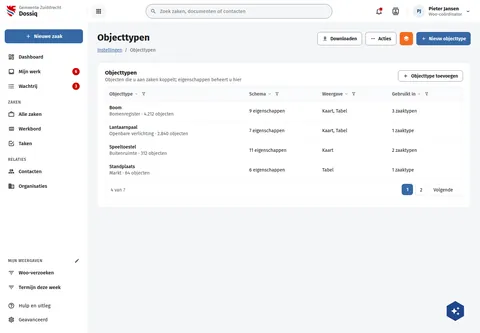
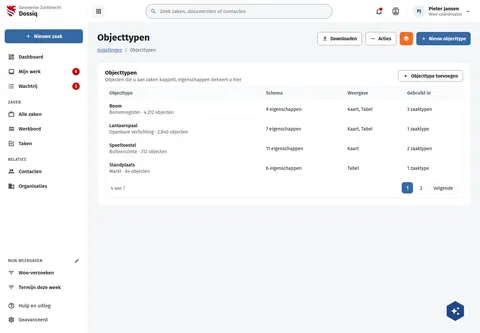
fix(screens): DqCatalogus card table heads are plain labels
The object types table in its card neither sorts nor filters, so its
heads are the column names only, as live draws them (r29 headRowHeight
46.5 vs 37.5).

Assisted-by: ClaudeCode:claude-opus-5-5

diff --git a/preview/screens/boards/DqCatalogus.html b/preview/screens/boards/DqCatalogus.html
@@ -144,7 +144,7 @@ a{color:var(--sc-primary, #3669a5)}a:hover{color:var(--sc-primary-deep, #234a78)
             <div style="flex: none; display: flex; flex-wrap: wrap; gap: 10px; position: relative"><button type="button" style="display: inline-flex; align-items: center; gap: 8px; height: 40px; padding: 0 14px; border-radius: 8px; font: 600 14px var(--sc-font, 'Fira Sans'), sans-serif; white-space: nowrap; border: 1px solid var(--sc-work-field, #828a95); background: #ffffff; color: var(--sc-work-ink, #1b1c1d);"><svg width="16" height="16" viewbox="0 0 24 24" fill="currentColor" aria-hidden="true"><path d="M13,5V11H14.17L12,13.17L9.83,11H11V5H13M15,3H9V9H5L12,16L19,9H15V3M19,18H5V20H19V18Z"></path></svg>Downloaden</button><button type="button" aria-haspopup="menu" style="display: flex; align-items: center; gap: 8px; height: 40px; padding: 0 14px; border: 1px solid var(--sc-work-field, #828a95); border-radius: 8px; background: #ffffff; font: 600 14px var(--sc-font, 'Fira Sans'), sans-serif; color: var(--sc-work-ink, #1b1c1d)"><svg width="16" height="16" viewbox="0 0 24 24" fill="currentColor" aria-hidden="true"><path d="M16,12A2,2 0 0,1 18,10A2,2 0 0,1 20,12A2,2 0 0,1 18,14A2,2 0 0,1 16,12M10,12A2,2 0 0,1 12,10A2,2 0 0,1 14,12A2,2 0 0,1 12,14A2,2 0 0,1 10,12M4,12A2,2 0 0,1 6,10A2,2 0 0,1 8,12A2,2 0 0,1 6,14A2,2 0 0,1 4,12Z"></path></svg>Acties</button><button type="button" aria-label="buildiq" title="buildiq" style="display: flex; align-items: center; justify-content: center; width: 40px; height: 40px; border: 0; border-radius: 8px; background: #f36c21; color: #ffffff"><svg width="20" height="20" viewbox="0 0 24 24" fill="currentColor" aria-hidden="true"><path d="M12,16L19.36,10.27L21,9L12,2L3,9L4.63,10.27M12,18.54L4.62,12.81L3,14.07L12,21.07L21,14.07L19.37,12.8L12,18.54Z"></path></svg></button><button type="button" style="display: inline-flex; align-items: center; gap: 8px; height: 40px; padding: 0 14px; border-radius: 8px; font: 600 14px var(--sc-font, 'Fira Sans'), sans-serif; white-space: nowrap; border: 0; background: var(--sc-primary, #3669a5); color: #ffffff;"><svg width="16" height="16" viewbox="0 0 24 24" fill="currentColor" aria-hidden="true"><path d="M19,13H13V19H11V13H5V11H11V5H13V11H19V13Z"></path></svg>Nieuw objecttype</button></div>
           </div>
           <div style="display: flex; flex-wrap: wrap; gap: 8px; align-items: center; font-size: 15px; color: var(--sc-work-muted, #5e6168); min-width: 0"><nav aria-label="Kruimelpad" style="font-size: 14px; color: var(--sc-work-muted, #5e6168); display: flex; gap: 8px"><a href="#">Instellingen</a><span aria-hidden="true">/</span><span aria-current="page">Objecttypen</span></nav></div>
-        </section><div style="display: flex; flex-wrap: wrap; gap: 20px; align-items: flex-start"><div style="flex: 1 1 100%; min-width: 0; display: flex; flex-direction: column; gap: 20px"><section style="background: #ffffff; border: 1px solid var(--sc-work-line, #e4e6ea); border-radius: 12px; padding: 20px 22px 22px; display: flex; flex-direction: column; gap: 12px"><div style="display: flex; flex-wrap: wrap; justify-content: space-between; align-items: center; gap: 8px 12px"><div style="display: flex; flex-direction: column; gap: 2px"><h2 style="margin: 0; font-size: 17px; font-weight: 700">Objecttypen</h2><span style="font-size: 14px; color: var(--sc-work-muted, #5e6168)">Objecten die u aan zaken koppelt; eigenschappen beheert u hier</span></div><button type="button" style="display: inline-flex; align-items: center; gap: 8px; height: 34px; padding: 0 14px; border-radius: 8px; font: 600 14px var(--sc-font, 'Fira Sans'), sans-serif; white-space: nowrap; border: 1px solid var(--sc-work-field, #828a95); background: #ffffff; color: var(--sc-work-ink, #1b1c1d);"><svg width="16" height="16" viewbox="0 0 24 24" fill="currentColor" aria-hidden="true"><path d="M19,13H13V19H11V13H5V11H11V5H13V11H19V13Z"></path></svg>Objecttype toevoegen</button></div><div style="background: #ffffff; border: 1px solid var(--sc-work-line, #e4e6ea); border-radius: 12px; overflow: hidden"><div style="overflow-x: auto"><table style="border-collapse: collapse; width: 100%; min-width: 860px; font-size: 14px"><thead><tr style="text-align: left; color: var(--sc-work-muted, #5e6168); background: #fafbfc"><th scope="col" style="padding: 10px 12px; font-weight: 600"><span style="display: inline-flex; align-items: center; gap: 4px"><button type="button" style="border: 0; background: transparent; padding: 0; font: inherit; color: inherit; display: inline-flex; gap: 4px; align-items: center; text-align: left">Objecttype <svg width="14" height="14" viewbox="0 0 24 24" fill="#828a95" aria-hidden="true" style="fill:var(--sc-work-field, #828a95)"><path d="M7.41,8.58L12,13.17L16.59,8.58L18,10L12,16L6,10L7.41,8.58Z"></path></svg></button><button type="button" aria-haspopup="dialog" aria-label="Filteren op Objecttype" title="Filteren op Objecttype" style="width: 22px; height: 22px; padding: 0; border: 0; border-radius: 4px; background: transparent; color: var(--sc-work-muted, #5e6168); display: inline-flex; align-items: center; justify-content: center"><svg width="14" height="14" viewbox="0 0 24 24" fill="currentColor" aria-hidden="true"><path d="M15,19.88C15.04,20.18 14.94,20.5 14.71,20.71C14.32,21.1 13.69,21.1 13.3,20.71L9.29,16.7C9.06,16.47 8.96,16.16 9,15.87V10.75L4.21,4.62C3.87,4.19 3.95,3.56 4.38,3.22C4.57,3.08 4.78,3 5,3V3H19V3C19.22,3 19.43,3.08 19.62,3.22C20.05,3.56 20.13,4.19 19.79,4.62L15,10.75V19.88M7.04,5L11,10.06V15.58L13,17.58V10.05L16.96,5H7.04Z"></path></svg></button></span></th><th scope="col" style="padding: 10px 12px; font-weight: 600"><span style="display: inline-flex; align-items: center; gap: 4px"><button type="button" style="border: 0; background: transparent; padding: 0; font: inherit; color: inherit; display: inline-flex; gap: 4px; align-items: center; text-align: left">Schema <svg width="14" height="14" viewbox="0 0 24 24" fill="#828a95" aria-hidden="true" style="fill:var(--sc-work-field, #828a95)"><path d="M7.41,8.58L12,13.17L16.59,8.58L18,10L12,16L6,10L7.41,8.58Z"></path></svg></button><button type="button" aria-haspopup="dialog" aria-label="Filteren op Schema" title="Filteren op Schema" style="width: 22px; height: 22px; padding: 0; border: 0; border-radius: 4px; background: transparent; color: var(--sc-work-muted, #5e6168); display: inline-flex; align-items: center; justify-content: center"><svg width="14" height="14" viewbox="0 0 24 24" fill="currentColor" aria-hidden="true"><path d="M15,19.88C15.04,20.18 14.94,20.5 14.71,20.71C14.32,21.1 13.69,21.1 13.3,20.71L9.29,16.7C9.06,16.47 8.96,16.16 9,15.87V10.75L4.21,4.62C3.87,4.19 3.95,3.56 4.38,3.22C4.57,3.08 4.78,3 5,3V3H19V3C19.22,3 19.43,3.08 19.62,3.22C20.05,3.56 20.13,4.19 19.79,4.62L15,10.75V19.88M7.04,5L11,10.06V15.58L13,17.58V10.05L16.96,5H7.04Z"></path></svg></button></span></th><th scope="col" style="padding: 10px 12px; font-weight: 600"><span style="display: inline-flex; align-items: center; gap: 4px"><button type="button" style="border: 0; background: transparent; padding: 0; font: inherit; color: inherit; display: inline-flex; gap: 4px; align-items: center; text-align: left">Weergave <svg width="14" height="14" viewbox="0 0 24 24" fill="#828a95" aria-hidden="true" style="fill:var(--sc-work-field, #828a95)"><path d="M7.41,8.58L12,13.17L16.59,8.58L18,10L12,16L6,10L7.41,8.58Z"></path></svg></button><button type="button" aria-haspopup="dialog" aria-label="Filteren op Weergave" title="Filteren op Weergave" style="width: 22px; height: 22px; padding: 0; border: 0; border-radius: 4px; background: transparent; color: var(--sc-work-muted, #5e6168); display: inline-flex; align-items: center; justify-content: center"><svg width="14" height="14" viewbox="0 0 24 24" fill="currentColor" aria-hidden="true"><path d="M15,19.88C15.04,20.18 14.94,20.5 14.71,20.71C14.32,21.1 13.69,21.1 13.3,20.71L9.29,16.7C9.06,16.47 8.96,16.16 9,15.87V10.75L4.21,4.62C3.87,4.19 3.95,3.56 4.38,3.22C4.57,3.08 4.78,3 5,3V3H19V3C19.22,3 19.43,3.08 19.62,3.22C20.05,3.56 20.13,4.19 19.79,4.62L15,10.75V19.88M7.04,5L11,10.06V15.58L13,17.58V10.05L16.96,5H7.04Z"></path></svg></button></span></th><th scope="col" style="padding: 10px 12px; font-weight: 600"><span style="display: inline-flex; align-items: center; gap: 4px"><button type="button" style="border: 0; background: transparent; padding: 0; font: inherit; color: inherit; display: inline-flex; gap: 4px; align-items: center; text-align: left">Gebruikt in <svg width="14" height="14" viewbox="0 0 24 24" fill="#828a95" aria-hidden="true" style="fill:var(--sc-work-field, #828a95)"><path d="M7.41,8.58L12,13.17L16.59,8.58L18,10L12,16L6,10L7.41,8.58Z"></path></svg></button><button type="button" aria-haspopup="dialog" aria-label="Filteren op Gebruikt in" title="Filteren op Gebruikt in" style="width: 22px; height: 22px; padding: 0; border: 0; border-radius: 4px; background: transparent; color: var(--sc-work-muted, #5e6168); display: inline-flex; align-items: center; justify-content: center"><svg width="14" height="14" viewbox="0 0 24 24" fill="currentColor" aria-hidden="true"><path d="M15,19.88C15.04,20.18 14.94,20.5 14.71,20.71C14.32,21.1 13.69,21.1 13.3,20.71L9.29,16.7C9.06,16.47 8.96,16.16 9,15.87V10.75L4.21,4.62C3.87,4.19 3.95,3.56 4.38,3.22C4.57,3.08 4.78,3 5,3V3H19V3C19.22,3 19.43,3.08 19.62,3.22C20.05,3.56 20.13,4.19 19.79,4.62L15,10.75V19.88M7.04,5L11,10.06V15.58L13,17.58V10.05L16.96,5H7.04Z"></path></svg></button></span></th></tr></thead><tbody><tr style="border-top: 1px solid var(--sc-work-soft, #eef0f3)"><td style="padding: 11px 12px; font-weight: 500"><span style="display: flex; flex-direction: column; gap: 2px"><span>Boom</span><span style="color: var(--sc-work-muted, #5e6168); font-weight: 400">Bomenregister · 4.212 objecten</span></span></td><td style="padding: 11px 12px">9 eigenschappen</td><td style="padding: 11px 12px">Kaart, Tabel</td><td style="padding: 11px 12px">3 zaaktypen</td></tr><tr style="border-top: 1px solid var(--sc-work-soft, #eef0f3)"><td style="padding: 11px 12px; font-weight: 500"><span style="display: flex; flex-direction: column; gap: 2px"><span>Lantaarnpaal</span><span style="color: var(--sc-work-muted, #5e6168); font-weight: 400">Openbare verlichting · 2.840 objecten</span></span></td><td style="padding: 11px 12px">7 eigenschappen</td><td style="padding: 11px 12px">Kaart, Tabel</td><td style="padding: 11px 12px">1 zaaktype</td></tr><tr style="border-top: 1px solid var(--sc-work-soft, #eef0f3)"><td style="padding: 11px 12px; font-weight: 500"><span style="display: flex; flex-direction: column; gap: 2px"><span>Speeltoestel</span><span style="color: var(--sc-work-muted, #5e6168); font-weight: 400">Buitenruimte · 312 objecten</span></span></td><td style="padding: 11px 12px">11 eigenschappen</td><td style="padding: 11px 12px">Kaart</td><td style="padding: 11px 12px">2 zaaktypen</td></tr><tr style="border-top: 1px solid var(--sc-work-soft, #eef0f3)"><td style="padding: 11px 12px; font-weight: 500"><span style="display: flex; flex-direction: column; gap: 2px"><span>Standplaats</span><span style="color: var(--sc-work-muted, #5e6168); font-weight: 400">Markt · 64 objecten</span></span></td><td style="padding: 11px 12px">6 eigenschappen</td><td style="padding: 11px 12px">Tabel</td><td style="padding: 11px 12px">1 zaaktype</td></tr></tbody></table></div><div style="display: flex; flex-wrap: wrap; justify-content: space-between; align-items: center; gap: 12px; padding: 12px 16px; border-top: 1px solid var(--sc-work-soft, #eef0f3); font-size: 14px; color: var(--sc-work-muted, #5e6168)"><span>4 van 7</span><nav aria-label="Paginering" style="display: flex; gap: 6px"><a href="#" aria-current="page" style="min-width: 34px; height: 34px; display: inline-flex; align-items: center; justify-content: center; border-radius: 8px; background: var(--sc-primary, #3669a5); color: #ffffff; font-weight: 600; text-decoration: none">1</a><a href="#" style="min-width: 34px; height: 34px; display: inline-flex; align-items: center; justify-content: center; border-radius: 8px; border: 1px solid var(--sc-work-line, #e4e6ea); color: var(--sc-work-ink, #1b1c1d); text-decoration: none">2</a><a href="#" style="height: 34px; padding: 0 12px; display: inline-flex; align-items: center; border-radius: 8px; border: 1px solid var(--sc-work-line, #e4e6ea); color: var(--sc-work-ink, #1b1c1d); text-decoration: none">Volgende</a></nav></div></div></section></div></div>
+        </section><div style="display: flex; flex-wrap: wrap; gap: 20px; align-items: flex-start"><div style="flex: 1 1 100%; min-width: 0; display: flex; flex-direction: column; gap: 20px"><section style="background: #ffffff; border: 1px solid var(--sc-work-line, #e4e6ea); border-radius: 12px; padding: 20px 22px 22px; display: flex; flex-direction: column; gap: 12px"><div style="display: flex; flex-wrap: wrap; justify-content: space-between; align-items: center; gap: 8px 12px"><div style="display: flex; flex-direction: column; gap: 2px"><h2 style="margin: 0; font-size: 17px; font-weight: 700">Objecttypen</h2><span style="font-size: 14px; color: var(--sc-work-muted, #5e6168)">Objecten die u aan zaken koppelt; eigenschappen beheert u hier</span></div><button type="button" style="display: inline-flex; align-items: center; gap: 8px; height: 34px; padding: 0 14px; border-radius: 8px; font: 600 14px var(--sc-font, 'Fira Sans'), sans-serif; white-space: nowrap; border: 1px solid var(--sc-work-field, #828a95); background: #ffffff; color: var(--sc-work-ink, #1b1c1d);"><svg width="16" height="16" viewbox="0 0 24 24" fill="currentColor" aria-hidden="true"><path d="M19,13H13V19H11V13H5V11H11V5H13V11H19V13Z"></path></svg>Objecttype toevoegen</button></div><div style="background: #ffffff; border: 1px solid var(--sc-work-line, #e4e6ea); border-radius: 12px; overflow: hidden"><div style="overflow-x: auto"><table style="border-collapse: collapse; width: 100%; min-width: 860px; font-size: 14px"><thead><tr style="text-align: left; color: var(--sc-work-muted, #5e6168); background: #fafbfc"><th scope="col" style="padding: 10px 12px; font-weight: 600">Objecttype</th><th scope="col" style="padding: 10px 12px; font-weight: 600">Schema</th><th scope="col" style="padding: 10px 12px; font-weight: 600">Weergave</th><th scope="col" style="padding: 10px 12px; font-weight: 600">Gebruikt in</th></tr></thead><tbody><tr style="border-top: 1px solid var(--sc-work-soft, #eef0f3)"><td style="padding: 11px 12px; font-weight: 500"><span style="display: flex; flex-direction: column; gap: 2px"><span>Boom</span><span style="color: var(--sc-work-muted, #5e6168); font-weight: 400">Bomenregister · 4.212 objecten</span></span></td><td style="padding: 11px 12px">9 eigenschappen</td><td style="padding: 11px 12px">Kaart, Tabel</td><td style="padding: 11px 12px">3 zaaktypen</td></tr><tr style="border-top: 1px solid var(--sc-work-soft, #eef0f3)"><td style="padding: 11px 12px; font-weight: 500"><span style="display: flex; flex-direction: column; gap: 2px"><span>Lantaarnpaal</span><span style="color: var(--sc-work-muted, #5e6168); font-weight: 400">Openbare verlichting · 2.840 objecten</span></span></td><td style="padding: 11px 12px">7 eigenschappen</td><td style="padding: 11px 12px">Kaart, Tabel</td><td style="padding: 11px 12px">1 zaaktype</td></tr><tr style="border-top: 1px solid var(--sc-work-soft, #eef0f3)"><td style="padding: 11px 12px; font-weight: 500"><span style="display: flex; flex-direction: column; gap: 2px"><span>Speeltoestel</span><span style="color: var(--sc-work-muted, #5e6168); font-weight: 400">Buitenruimte · 312 objecten</span></span></td><td style="padding: 11px 12px">11 eigenschappen</td><td style="padding: 11px 12px">Kaart</td><td style="padding: 11px 12px">2 zaaktypen</td></tr><tr style="border-top: 1px solid var(--sc-work-soft, #eef0f3)"><td style="padding: 11px 12px; font-weight: 500"><span style="display: flex; flex-direction: column; gap: 2px"><span>Standplaats</span><span style="color: var(--sc-work-muted, #5e6168); font-weight: 400">Markt · 64 objecten</span></span></td><td style="padding: 11px 12px">6 eigenschappen</td><td style="padding: 11px 12px">Tabel</td><td style="padding: 11px 12px">1 zaaktype</td></tr></tbody></table></div><div style="display: flex; flex-wrap: wrap; justify-content: space-between; align-items: center; gap: 12px; padding: 12px 16px; border-top: 1px solid var(--sc-work-soft, #eef0f3); font-size: 14px; color: var(--sc-work-muted, #5e6168)"><span>4 van 7</span><nav aria-label="Paginering" style="display: flex; gap: 6px"><a href="#" aria-current="page" style="min-width: 34px; height: 34px; display: inline-flex; align-items: center; justify-content: center; border-radius: 8px; background: var(--sc-primary, #3669a5); color: #ffffff; font-weight: 600; text-decoration: none">1</a><a href="#" style="min-width: 34px; height: 34px; display: inline-flex; align-items: center; justify-content: center; border-radius: 8px; border: 1px solid var(--sc-work-line, #e4e6ea); color: var(--sc-work-ink, #1b1c1d); text-decoration: none">2</a><a href="#" style="height: 34px; padding: 0 12px; display: inline-flex; align-items: center; border-radius: 8px; border: 1px solid var(--sc-work-line, #e4e6ea); color: var(--sc-work-ink, #1b1c1d); text-decoration: none">Volgende</a></nav></div></div></section></div></div>
       </main>
     </div>
   </div>

diff --git a/screens-src/zuiddrecht/DqCatalogus.dc.html b/screens-src/zuiddrecht/DqCatalogus.dc.html
@@ -26,7 +26,7 @@ a{color:#3669a5}a:hover{color:#234a78}
             <div style="flex: none; display: flex; flex-wrap: wrap; gap: 10px; position: relative"><button type="button" style="display: inline-flex; align-items: center; gap: 8px; height: 40px; padding: 0 14px; border-radius: 8px; font: 600 14px 'Fira Sans', sans-serif; white-space: nowrap; border: 1px solid #828a95; background: #ffffff; color: #1b1c1d;"><svg width="16" height="16" viewBox="0 0 24 24" fill="currentColor" aria-hidden="true"><path d="M13,5V11H14.17L12,13.17L9.83,11H11V5H13M15,3H9V9H5L12,16L19,9H15V3M19,18H5V20H19V18Z"></path></svg>Downloaden</button><button type="button" aria-haspopup="menu" style="display: flex; align-items: center; gap: 8px; height: 40px; padding: 0 14px; border: 1px solid #828a95; border-radius: 8px; background: #ffffff; font: 600 14px 'Fira Sans', sans-serif; color: #1b1c1d"><svg width="16" height="16" viewBox="0 0 24 24" fill="currentColor" aria-hidden="true"><path d="M16,12A2,2 0 0,1 18,10A2,2 0 0,1 20,12A2,2 0 0,1 18,14A2,2 0 0,1 16,12M10,12A2,2 0 0,1 12,10A2,2 0 0,1 14,12A2,2 0 0,1 12,14A2,2 0 0,1 10,12M4,12A2,2 0 0,1 6,10A2,2 0 0,1 8,12A2,2 0 0,1 6,14A2,2 0 0,1 4,12Z"></path></svg>Acties</button><button type="button" aria-label="buildiq" title="buildiq" style="display: flex; align-items: center; justify-content: center; width: 40px; height: 40px; border: 0; border-radius: 8px; background: #f36c21; color: #ffffff"><svg width="20" height="20" viewBox="0 0 24 24" fill="currentColor" aria-hidden="true"><path d="M12,16L19.36,10.27L21,9L12,2L3,9L4.63,10.27M12,18.54L4.62,12.81L3,14.07L12,21.07L21,14.07L19.37,12.8L12,18.54Z"></path></svg></button><button type="button" style="display: inline-flex; align-items: center; gap: 8px; height: 40px; padding: 0 14px; border-radius: 8px; font: 600 14px 'Fira Sans', sans-serif; white-space: nowrap; border: 0; background: #3669a5; color: #ffffff;"><svg width="16" height="16" viewBox="0 0 24 24" fill="currentColor" aria-hidden="true"><path d="M19,13H13V19H11V13H5V11H11V5H13V11H19V13Z"></path></svg>Nieuw objecttype</button></div>
           </div>
           <div style="display: flex; flex-wrap: wrap; gap: 8px; align-items: center; font-size: 15px; color: #5e6168; min-width: 0"><nav aria-label="Kruimelpad" style="font-size: 14px; color: #5e6168; display: flex; gap: 8px"><a href="#">Instellingen</a><span aria-hidden="true">/</span><span aria-current="page">Objecttypen</span></nav></div>
-        </section><div style="display: flex; flex-wrap: wrap; gap: 20px; align-items: flex-start"><div style="flex: 1 1 100%; min-width: 0; display: flex; flex-direction: column; gap: 20px"><section style="background: #ffffff; border: 1px solid #e4e6ea; border-radius: 12px; padding: 20px 22px 22px; display: flex; flex-direction: column; gap: 12px"><div style="display: flex; flex-wrap: wrap; justify-content: space-between; align-items: center; gap: 8px 12px"><div style="display: flex; flex-direction: column; gap: 2px"><h2 style="margin: 0; font-size: 17px; font-weight: 700">Objecttypen</h2><span style="font-size: 14px; color: #5e6168">Objecten die u aan zaken koppelt; eigenschappen beheert u hier</span></div><button type="button" style="display: inline-flex; align-items: center; gap: 8px; height: 34px; padding: 0 14px; border-radius: 8px; font: 600 14px 'Fira Sans', sans-serif; white-space: nowrap; border: 1px solid #828a95; background: #ffffff; color: #1b1c1d;"><svg width="16" height="16" viewBox="0 0 24 24" fill="currentColor" aria-hidden="true"><path d="M19,13H13V19H11V13H5V11H11V5H13V11H19V13Z"></path></svg>Objecttype toevoegen</button></div><div style="background: #ffffff; border: 1px solid #e4e6ea; border-radius: 12px; overflow: hidden"><div style="overflow-x: auto"><table style="border-collapse: collapse; width: 100%; min-width: 860px; font-size: 14px"><thead><tr style="text-align: left; color: #5e6168; background: #fafbfc"><th scope="col" style="padding: 10px 12px; font-weight: 600"><span style="display: inline-flex; align-items: center; gap: 4px"><button type="button" style="border: 0; background: transparent; padding: 0; font: inherit; color: inherit; display: inline-flex; gap: 4px; align-items: center; text-align: left">Objecttype <svg width="14" height="14" viewBox="0 0 24 24" fill="#828a95" aria-hidden="true"><path d="M7.41,8.58L12,13.17L16.59,8.58L18,10L12,16L6,10L7.41,8.58Z"></path></svg></button><button type="button" aria-haspopup="dialog" aria-label="Filteren op Objecttype" title="Filteren op Objecttype" style="width: 22px; height: 22px; padding: 0; border: 0; border-radius: 4px; background: transparent; color: #5e6168; display: inline-flex; align-items: center; justify-content: center"><svg width="14" height="14" viewBox="0 0 24 24" fill="currentColor" aria-hidden="true"><path d="M15,19.88C15.04,20.18 14.94,20.5 14.71,20.71C14.32,21.1 13.69,21.1 13.3,20.71L9.29,16.7C9.06,16.47 8.96,16.16 9,15.87V10.75L4.21,4.62C3.87,4.19 3.95,3.56 4.38,3.22C4.57,3.08 4.78,3 5,3V3H19V3C19.22,3 19.43,3.08 19.62,3.22C20.05,3.56 20.13,4.19 19.79,4.62L15,10.75V19.88M7.04,5L11,10.06V15.58L13,17.58V10.05L16.96,5H7.04Z"></path></svg></button></span></th><th scope="col" style="padding: 10px 12px; font-weight: 600"><span style="display: inline-flex; align-items: center; gap: 4px"><button type="button" style="border: 0; background: transparent; padding: 0; font: inherit; color: inherit; display: inline-flex; gap: 4px; align-items: center; text-align: left">Schema <svg width="14" height="14" viewBox="0 0 24 24" fill="#828a95" aria-hidden="true"><path d="M7.41,8.58L12,13.17L16.59,8.58L18,10L12,16L6,10L7.41,8.58Z"></path></svg></button><button type="button" aria-haspopup="dialog" aria-label="Filteren op Schema" title="Filteren op Schema" style="width: 22px; height: 22px; padding: 0; border: 0; border-radius: 4px; background: transparent; color: #5e6168; display: inline-flex; align-items: center; justify-content: center"><svg width="14" height="14" viewBox="0 0 24 24" fill="currentColor" aria-hidden="true"><path d="M15,19.88C15.04,20.18 14.94,20.5 14.71,20.71C14.32,21.1 13.69,21.1 13.3,20.71L9.29,16.7C9.06,16.47 8.96,16.16 9,15.87V10.75L4.21,4.62C3.87,4.19 3.95,3.56 4.38,3.22C4.57,3.08 4.78,3 5,3V3H19V3C19.22,3 19.43,3.08 19.62,3.22C20.05,3.56 20.13,4.19 19.79,4.62L15,10.75V19.88M7.04,5L11,10.06V15.58L13,17.58V10.05L16.96,5H7.04Z"></path></svg></button></span></th><th scope="col" style="padding: 10px 12px; font-weight: 600"><span style="display: inline-flex; align-items: center; gap: 4px"><button type="button" style="border: 0; background: transparent; padding: 0; font: inherit; color: inherit; display: inline-flex; gap: 4px; align-items: center; text-align: left">Weergave <svg width="14" height="14" viewBox="0 0 24 24" fill="#828a95" aria-hidden="true"><path d="M7.41,8.58L12,13.17L16.59,8.58L18,10L12,16L6,10L7.41,8.58Z"></path></svg></button><button type="button" aria-haspopup="dialog" aria-label="Filteren op Weergave" title="Filteren op Weergave" style="width: 22px; height: 22px; padding: 0; border: 0; border-radius: 4px; background: transparent; color: #5e6168; display: inline-flex; align-items: center; justify-content: center"><svg width="14" height="14" viewBox="0 0 24 24" fill="currentColor" aria-hidden="true"><path d="M15,19.88C15.04,20.18 14.94,20.5 14.71,20.71C14.32,21.1 13.69,21.1 13.3,20.71L9.29,16.7C9.06,16.47 8.96,16.16 9,15.87V10.75L4.21,4.62C3.87,4.19 3.95,3.56 4.38,3.22C4.57,3.08 4.78,3 5,3V3H19V3C19.22,3 19.43,3.08 19.62,3.22C20.05,3.56 20.13,4.19 19.79,4.62L15,10.75V19.88M7.04,5L11,10.06V15.58L13,17.58V10.05L16.96,5H7.04Z"></path></svg></button></span></th><th scope="col" style="padding: 10px 12px; font-weight: 600"><span style="display: inline-flex; align-items: center; gap: 4px"><button type="button" style="border: 0; background: transparent; padding: 0; font: inherit; color: inherit; display: inline-flex; gap: 4px; align-items: center; text-align: left">Gebruikt in <svg width="14" height="14" viewBox="0 0 24 24" fill="#828a95" aria-hidden="true"><path d="M7.41,8.58L12,13.17L16.59,8.58L18,10L12,16L6,10L7.41,8.58Z"></path></svg></button><button type="button" aria-haspopup="dialog" aria-label="Filteren op Gebruikt in" title="Filteren op Gebruikt in" style="width: 22px; height: 22px; padding: 0; border: 0; border-radius: 4px; background: transparent; color: #5e6168; display: inline-flex; align-items: center; justify-content: center"><svg width="14" height="14" viewBox="0 0 24 24" fill="currentColor" aria-hidden="true"><path d="M15,19.88C15.04,20.18 14.94,20.5 14.71,20.71C14.32,21.1 13.69,21.1 13.3,20.71L9.29,16.7C9.06,16.47 8.96,16.16 9,15.87V10.75L4.21,4.62C3.87,4.19 3.95,3.56 4.38,3.22C4.57,3.08 4.78,3 5,3V3H19V3C19.22,3 19.43,3.08 19.62,3.22C20.05,3.56 20.13,4.19 19.79,4.62L15,10.75V19.88M7.04,5L11,10.06V15.58L13,17.58V10.05L16.96,5H7.04Z"></path></svg></button></span></th></tr></thead><tbody><tr style="border-top: 1px solid #eef0f3"><td style="padding: 11px 12px; font-weight: 500"><span style="display: flex; flex-direction: column; gap: 2px"><span>Boom</span><span style="color: #5e6168; font-weight: 400">Bomenregister · 4.212 objecten</span></span></td><td style="padding: 11px 12px">9 eigenschappen</td><td style="padding: 11px 12px">Kaart, Tabel</td><td style="padding: 11px 12px">3 zaaktypen</td></tr><tr style="border-top: 1px solid #eef0f3"><td style="padding: 11px 12px; font-weight: 500"><span style="display: flex; flex-direction: column; gap: 2px"><span>Lantaarnpaal</span><span style="color: #5e6168; font-weight: 400">Openbare verlichting · 2.840 objecten</span></span></td><td style="padding: 11px 12px">7 eigenschappen</td><td style="padding: 11px 12px">Kaart, Tabel</td><td style="padding: 11px 12px">1 zaaktype</td></tr><tr style="border-top: 1px solid #eef0f3"><td style="padding: 11px 12px; font-weight: 500"><span style="display: flex; flex-direction: column; gap: 2px"><span>Speeltoestel</span><span style="color: #5e6168; font-weight: 400">Buitenruimte · 312 objecten</span></span></td><td style="padding: 11px 12px">11 eigenschappen</td><td style="padding: 11px 12px">Kaart</td><td style="padding: 11px 12px">2 zaaktypen</td></tr><tr style="border-top: 1px solid #eef0f3"><td style="padding: 11px 12px; font-weight: 500"><span style="display: flex; flex-direction: column; gap: 2px"><span>Standplaats</span><span style="color: #5e6168; font-weight: 400">Markt · 64 objecten</span></span></td><td style="padding: 11px 12px">6 eigenschappen</td><td style="padding: 11px 12px">Tabel</td><td style="padding: 11px 12px">1 zaaktype</td></tr></tbody></table></div><div style="display: flex; flex-wrap: wrap; justify-content: space-between; align-items: center; gap: 12px; padding: 12px 16px; border-top: 1px solid #eef0f3; font-size: 14px; color: #5e6168"><span>4 van 7</span><nav aria-label="Paginering" style="display: flex; gap: 6px"><a href="#" aria-current="page" style="min-width: 34px; height: 34px; display: inline-flex; align-items: center; justify-content: center; border-radius: 8px; background: #3669a5; color: #ffffff; font-weight: 600; text-decoration: none">1</a><a href="#" style="min-width: 34px; height: 34px; display: inline-flex; align-items: center; justify-content: center; border-radius: 8px; border: 1px solid #e4e6ea; color: #1b1c1d; text-decoration: none">2</a><a href="#" style="height: 34px; padding: 0 12px; display: inline-flex; align-items: center; border-radius: 8px; border: 1px solid #e4e6ea; color: #1b1c1d; text-decoration: none">Volgende</a></nav></div></div></section></div></div>
+        </section><div style="display: flex; flex-wrap: wrap; gap: 20px; align-items: flex-start"><div style="flex: 1 1 100%; min-width: 0; display: flex; flex-direction: column; gap: 20px"><section style="background: #ffffff; border: 1px solid #e4e6ea; border-radius: 12px; padding: 20px 22px 22px; display: flex; flex-direction: column; gap: 12px"><div style="display: flex; flex-wrap: wrap; justify-content: space-between; align-items: center; gap: 8px 12px"><div style="display: flex; flex-direction: column; gap: 2px"><h2 style="margin: 0; font-size: 17px; font-weight: 700">Objecttypen</h2><span style="font-size: 14px; color: #5e6168">Objecten die u aan zaken koppelt; eigenschappen beheert u hier</span></div><button type="button" style="display: inline-flex; align-items: center; gap: 8px; height: 34px; padding: 0 14px; border-radius: 8px; font: 600 14px 'Fira Sans', sans-serif; white-space: nowrap; border: 1px solid #828a95; background: #ffffff; color: #1b1c1d;"><svg width="16" height="16" viewBox="0 0 24 24" fill="currentColor" aria-hidden="true"><path d="M19,13H13V19H11V13H5V11H11V5H13V11H19V13Z"></path></svg>Objecttype toevoegen</button></div><div style="background: #ffffff; border: 1px solid #e4e6ea; border-radius: 12px; overflow: hidden"><div style="overflow-x: auto"><table style="border-collapse: collapse; width: 100%; min-width: 860px; font-size: 14px"><thead><tr style="text-align: left; color: #5e6168; background: #fafbfc"><th scope="col" style="padding: 10px 12px; font-weight: 600">Objecttype</th><th scope="col" style="padding: 10px 12px; font-weight: 600">Schema</th><th scope="col" style="padding: 10px 12px; font-weight: 600">Weergave</th><th scope="col" style="padding: 10px 12px; font-weight: 600">Gebruikt in</th></tr></thead><tbody><tr style="border-top: 1px solid #eef0f3"><td style="padding: 11px 12px; font-weight: 500"><span style="display: flex; flex-direction: column; gap: 2px"><span>Boom</span><span style="color: #5e6168; font-weight: 400">Bomenregister · 4.212 objecten</span></span></td><td style="padding: 11px 12px">9 eigenschappen</td><td style="padding: 11px 12px">Kaart, Tabel</td><td style="padding: 11px 12px">3 zaaktypen</td></tr><tr style="border-top: 1px solid #eef0f3"><td style="padding: 11px 12px; font-weight: 500"><span style="display: flex; flex-direction: column; gap: 2px"><span>Lantaarnpaal</span><span style="color: #5e6168; font-weight: 400">Openbare verlichting · 2.840 objecten</span></span></td><td style="padding: 11px 12px">7 eigenschappen</td><td style="padding: 11px 12px">Kaart, Tabel</td><td style="padding: 11px 12px">1 zaaktype</td></tr><tr style="border-top: 1px solid #eef0f3"><td style="padding: 11px 12px; font-weight: 500"><span style="display: flex; flex-direction: column; gap: 2px"><span>Speeltoestel</span><span style="color: #5e6168; font-weight: 400">Buitenruimte · 312 objecten</span></span></td><td style="padding: 11px 12px">11 eigenschappen</td><td style="padding: 11px 12px">Kaart</td><td style="padding: 11px 12px">2 zaaktypen</td></tr><tr style="border-top: 1px solid #eef0f3"><td style="padding: 11px 12px; font-weight: 500"><span style="display: flex; flex-direction: column; gap: 2px"><span>Standplaats</span><span style="color: #5e6168; font-weight: 400">Markt · 64 objecten</span></span></td><td style="padding: 11px 12px">6 eigenschappen</td><td style="padding: 11px 12px">Tabel</td><td style="padding: 11px 12px">1 zaaktype</td></tr></tbody></table></div><div style="display: flex; flex-wrap: wrap; justify-content: space-between; align-items: center; gap: 12px; padding: 12px 16px; border-top: 1px solid #eef0f3; font-size: 14px; color: #5e6168"><span>4 van 7</span><nav aria-label="Paginering" style="display: flex; gap: 6px"><a href="#" aria-current="page" style="min-width: 34px; height: 34px; display: inline-flex; align-items: center; justify-content: center; border-radius: 8px; background: #3669a5; color: #ffffff; font-weight: 600; text-decoration: none">1</a><a href="#" style="min-width: 34px; height: 34px; display: inline-flex; align-items: center; justify-content: center; border-radius: 8px; border: 1px solid #e4e6ea; color: #1b1c1d; text-decoration: none">2</a><a href="#" style="height: 34px; padding: 0 12px; display: inline-flex; align-items: center; border-radius: 8px; border: 1px solid #e4e6ea; color: #1b1c1d; text-decoration: none">Volgende</a></nav></div></div></section></div></div>
       </main>
     </div>
   </div>
